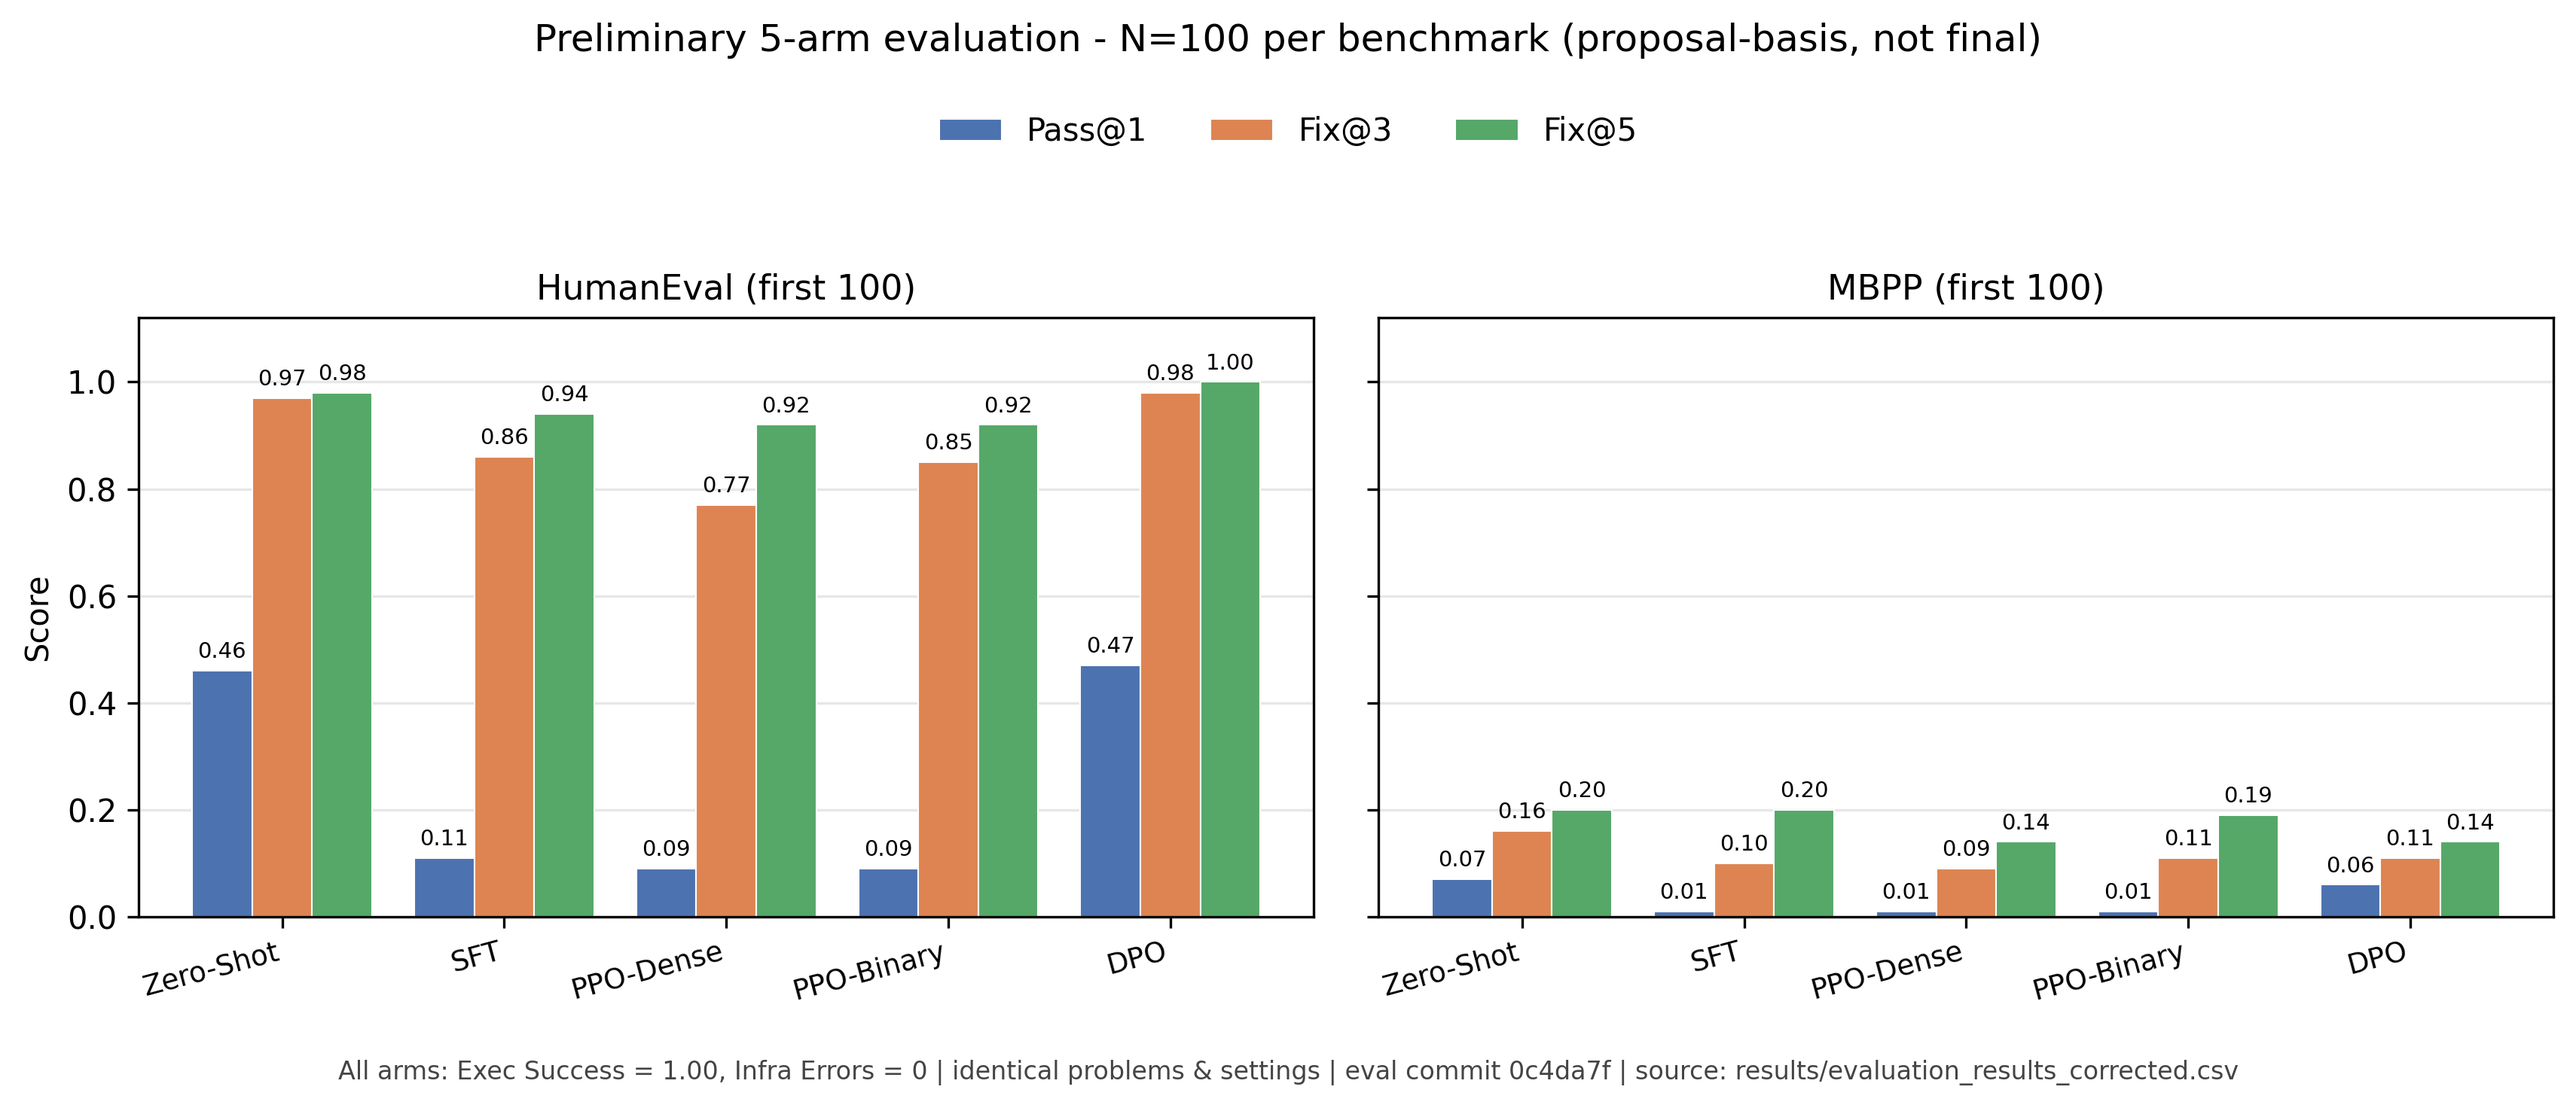
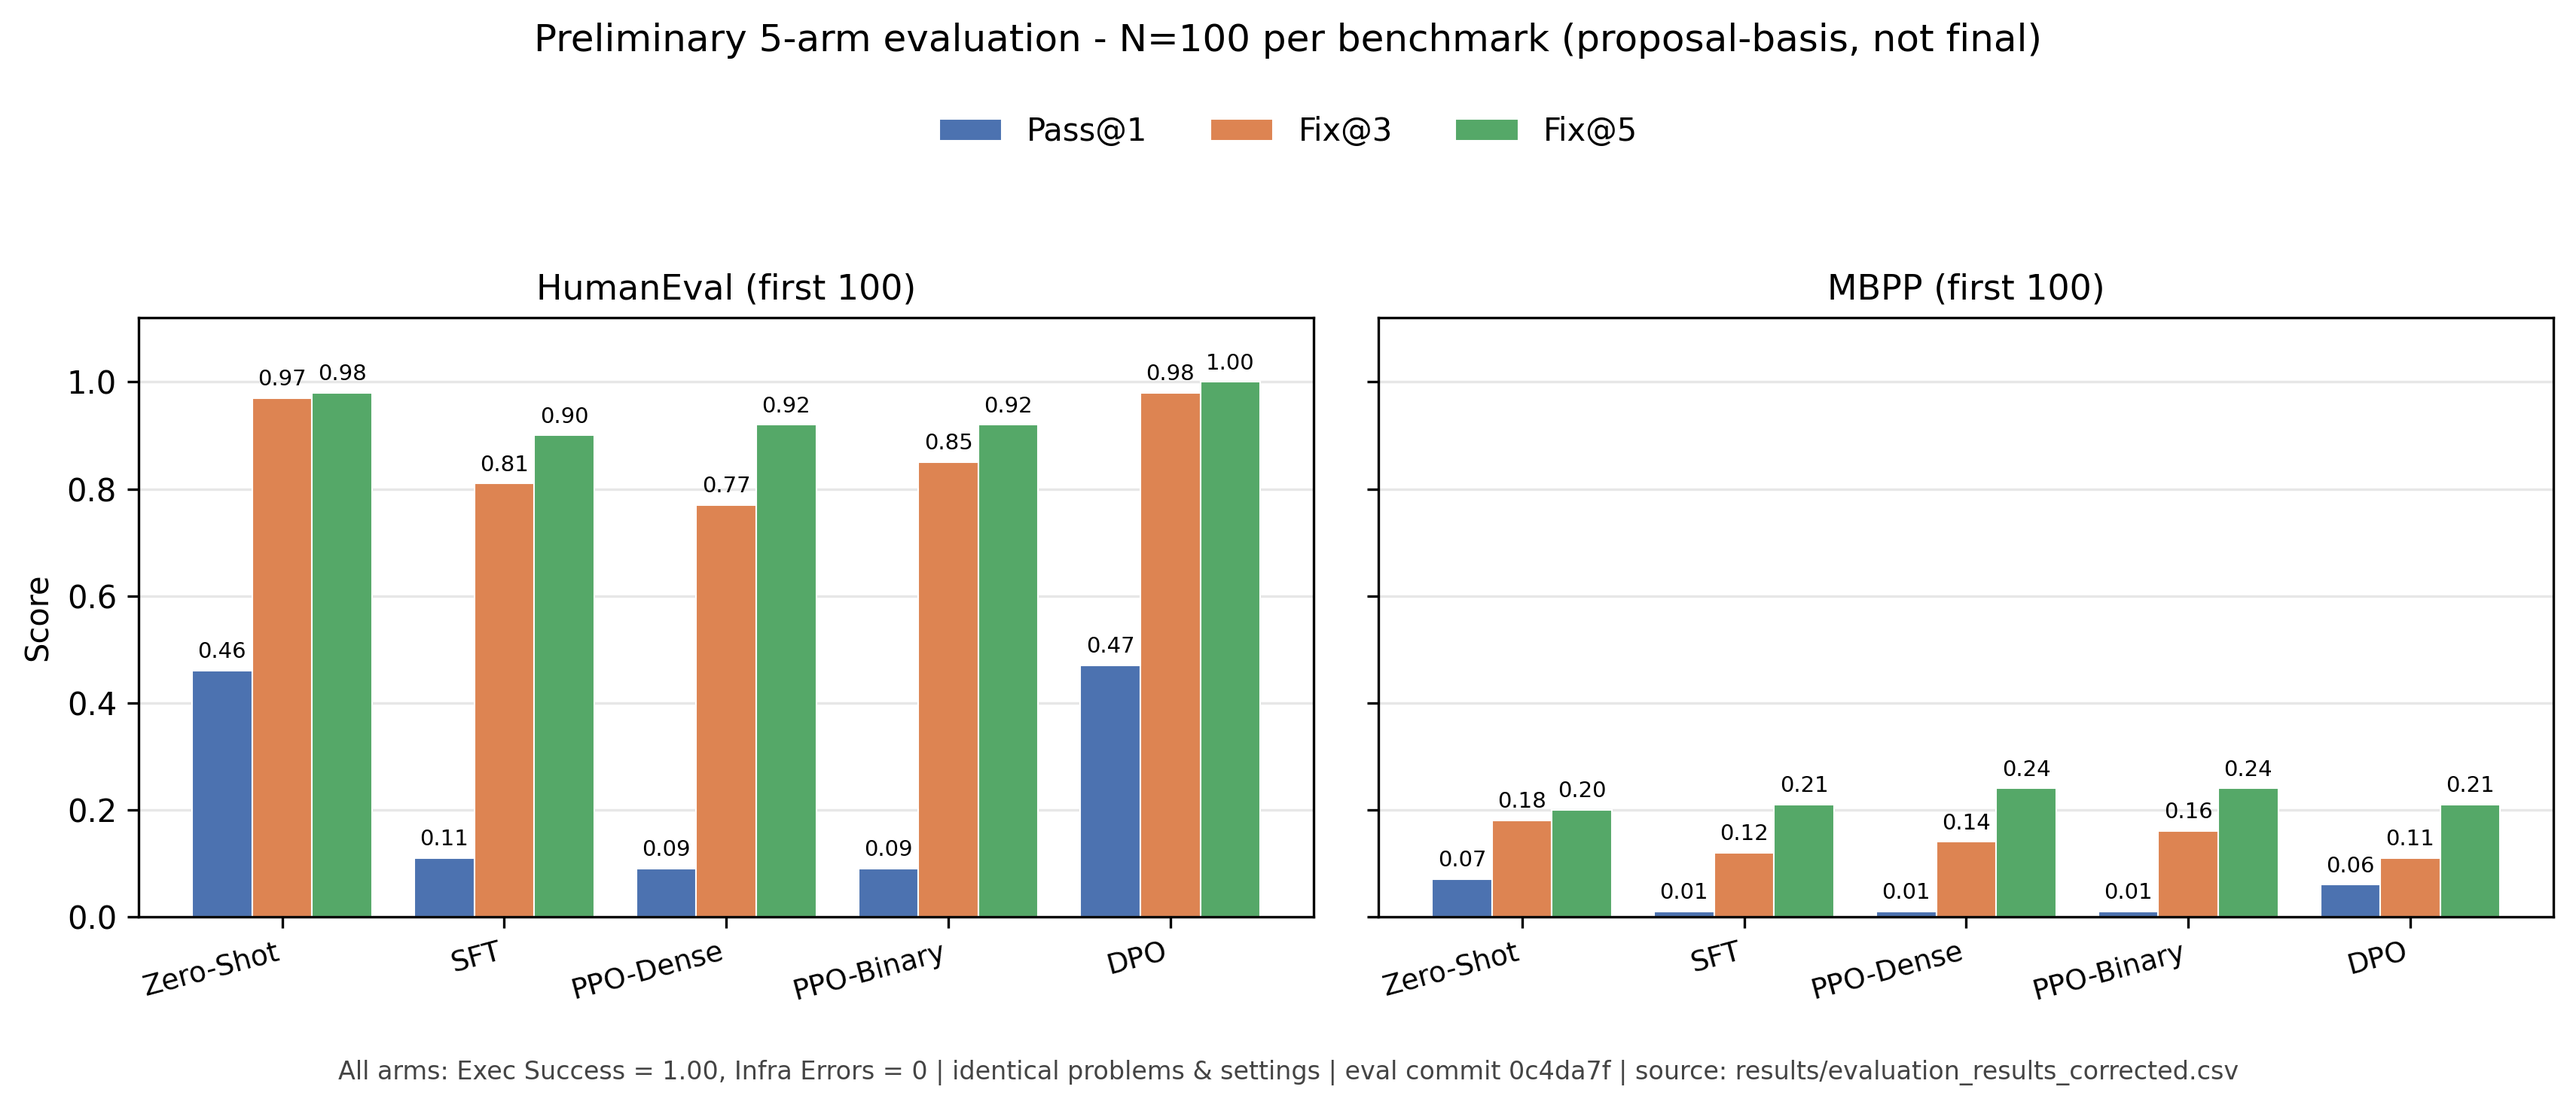
results: replace N=100 Fix@K values with lead-approved run output

diff --git a/outputs.md b/outputs.md
@@ -553,20 +553,21 @@ All 5 arms ran (no SKIPPED), `Exec_Success = 1.0`, `Infra_Errors = 0`, Fix@K mon
 ### Large N=100 (2026-09-28, commit `0c4da7f`; Fix@1 ≡ Pass@1 by construction; **proposal-basis preliminary — not final paper results**)
 | Model | HE Pass@1 | HE Fix@3 | HE Fix@5 | MBPP Pass@1 | MBPP Fix@3 | MBPP Fix@5 | Exec Success | Infra Errors |
 |---|---|---|---|---|---|---|---|---|
-| Zero-Shot | 0.46 | 0.97 | 0.98 | 0.07 | 0.16 | 0.20 | 1.00 | 0 |
-| SFT | 0.11 | 0.86 | 0.94 | 0.01 | 0.10 | 0.20 | 1.00 | 0 |
-| PPO-dense | 0.09 | 0.77 | 0.92 | 0.01 | 0.09 | 0.14 | 1.00 | 0 |
-| PPO-binary | 0.09 | 0.85 | 0.92 | 0.01 | 0.11 | 0.19 | 1.00 | 0 |
-| DPO | 0.47 | 0.98 | 1.00 | 0.06 | 0.11 | 0.14 | 1.00 | 0 |
+| Zero-Shot | 0.46 | 0.97 | 0.98 | 0.07 | 0.18 | 0.20 | 1.00 | 0 |
+| SFT | 0.11 | 0.81 | 0.90 | 0.01 | 0.12 | 0.21 | 1.00 | 0 |
+| PPO-dense | 0.09 | 0.77 | 0.92 | 0.01 | 0.14 | 0.24 | 1.00 | 0 |
+| PPO-binary | 0.09 | 0.85 | 0.92 | 0.01 | 0.16 | 0.24 | 1.00 | 0 |
+| DPO | 0.47 | 0.98 | 1.00 | 0.06 | 0.11 | 0.21 | 1.00 | 0 |
 
 ### Observations (n=100 each benchmark; accepted as proposal-basis preliminary eval, full set reserved for final paper)
-1. **Self-correction loop is the dominant lever**: e.g. PPO-dense HE `0.09` Pass@1 → `0.92` Fix@5; SFT `0.11` → `0.94`.
+1. **Self-correction loop is the dominant lever**: e.g. PPO-dense HE `0.09` Pass@1 → `0.92` Fix@5; SFT `0.11` → `0.90`.
 2. **Base-adjacent arms dominate first-shot**: Zero-Shot `0.46` / DPO `0.47` HE Pass@1 vs SFT-family `0.09–0.11`. Zero-Shot ≈ published deepseek-coder-1.3b-instruct HumanEval (~39%) — sanity ✓. APPS-SFT degrades HE/MBPP first-shot generation; PPO did not restore it (trained on APPS, evaluated cross-domain).
-3. **RQ4 (binary vs dense)**: PPO-binary ≥ PPO-dense — HE Fix@3 `0.85` vs `0.77`, MBPP Fix@5 `0.19` vs `0.14`, ties on HE Pass@1/Fix@5 — binary AC-only matches dense partial credit.
-4. **RQ5 caveat**: DPO ≈ its own starting point (Zero-Shot): HE 47 vs 46 Pass@1; MBPP Fix@5 `0.14` vs `0.20` (worse). The approved DPO run initialized from the **base model** (SFT-adapter search fell back) with 100 pairs — DPO ≫ PPO here largely reflects base-vs-SFT drift, **not** an apples-to-apples DPO-from-SFT vs PPO comparison. Do not cite as RQ5 verdict without this caveat.
+3. **RQ4 (binary vs dense)**: observed higher for PPO-binary on HE Fix@3 `0.85` vs `0.77` and MBPP Fix@3 `0.16` vs `0.14`; identical on HE Pass@1 / HE Fix@5 (`0.92` vs `0.92`) and MBPP Pass@1 / MBPP Fix@5 (`0.24` vs `0.24`) — directional observation only, no significance or equivalence claim.
+4. **RQ5 caveat**: DPO ≈ its own starting point (Zero-Shot): HE 47 vs 46 Pass@1; MBPP Fix@5 `0.21` vs `0.20` (≈ equal). The approved DPO run initialized from the **base model** (SFT-adapter search fell back) with 100 pairs — DPO ≫ PPO here largely reflects base-vs-SFT drift, **not** an apples-to-apples DPO-from-SFT vs PPO comparison. Do not cite as RQ5 verdict without this caveat.
 5. Smoke (N=20) directions reproduced at N=100.
 - **Status**: large eval (N=100) accepted as the **proposal-basis preliminary evaluation** (proposal scope, 2026-09-28). FULL run (164 HE + 500 MBPP, `EVAL_N=None`) remains the planned final-paper target per experiment rule 13.
 - **Artifact record (2026-09-28, post-run)**: the Kaggle session ended without persisting `/kaggle/working` — the original `evaluation_results_corrected.csv/.json` from this run were lost. Exact transcriptions (n=100 → every metric is count/100, no precision loss) are archived at `results/evaluation_results_corrected.csv` + `results/evaluation_results_corrected.json`; the JSON carries an `artifact_provenance` block and marks the two unrecoverable fields (`timestamp_utc`, `status_distributions`) as null. Separately, an accidental re-evaluation against the **flagged first-version notebook-5 output** (non-paper checkpoint) was run; its artifacts were also lost with the session — **no results from that run are retained or reportable**. NB07's runner cell now enforces a provenance gate (`seed 42 / max_steps 100 / target_kl 4 / commit 36c8055*`) that raises before evaluating any non-paper PPO checkpoint.
+- **Value replacement (2026-09-29, lead-approved)**: the Fix@3/Fix@5 values in the N=100 table above were replaced with those from a console capture of the same commit (`0c4da7f`, gate paths + DPO metadata WARN verified). All Pass@1 / Exec_Success / Infra_Errors values are unchanged; Fix@K differences are consistent with sampled turns 1-4 varying across executions of the same seeded eval. Source-session-of-origin was not identified — recorded as an open provenance item in `results/evaluation_results_corrected.json` (`artifact_provenance`). The 2026-09-28 transcription is superseded.
 - **Post-update path audit (2026-09-28)**: with the corrected notebook-5 output attached, `ppo_dense` → `notebook5/.../ppo_dense/final` and `ppo_binary` → `rjd2002/05-ppo-training/.../ppo_binary/final` both show `seed 42 | max_steps 100 | target_kl 4.0 | commit 36c8055` (paper spec, gate-ready); `sft` resolves to notebook5's bundled `checkpoints/sft/final` copy (adapter hash vs notebook4 not compared — parked as low risk); `dpo` known leniency; `zero_shot` = base model.
 
 

diff --git a/docs/experiment_status.md b/docs/experiment_status.md
@@ -59,11 +59,11 @@ The September 2026 notebook runs are preserved as execution evidence, but the nu
 
 | Model | HE Pass@1 | HE Fix@3 | HE Fix@5 | MBPP Pass@1 | MBPP Fix@3 | MBPP Fix@5 | Exec Success | Infra Errors |
 |---|---|---|---|---|---|---|---|---|
-| Zero-Shot | 0.46 | 0.97 | 0.98 | 0.07 | 0.16 | 0.20 | 1.00 | 0 |
-| SFT | 0.11 | 0.86 | 0.94 | 0.01 | 0.10 | 0.20 | 1.00 | 0 |
-| PPO-Dense | 0.09 | 0.77 | 0.92 | 0.01 | 0.09 | 0.14 | 1.00 | 0 |
-| PPO-Binary | 0.09 | 0.85 | 0.92 | 0.01 | 0.11 | 0.19 | 1.00 | 0 |
-| DPO | 0.47 | 0.98 | 1.00 | 0.06 | 0.11 | 0.14 | 1.00 | 0 |
+| Zero-Shot | 0.46 | 0.97 | 0.98 | 0.07 | 0.18 | 0.20 | 1.00 | 0 |
+| SFT | 0.11 | 0.81 | 0.90 | 0.01 | 0.12 | 0.21 | 1.00 | 0 |
+| PPO-Dense | 0.09 | 0.77 | 0.92 | 0.01 | 0.14 | 0.24 | 1.00 | 0 |
+| PPO-Binary | 0.09 | 0.85 | 0.92 | 0.01 | 0.16 | 0.24 | 1.00 | 0 |
+| DPO | 0.47 | 0.98 | 1.00 | 0.06 | 0.11 | 0.21 | 1.00 | 0 |
 
 **DPO caveat (RQ5)**: the current DPO checkpoint was **initialized from the base model** (the SFT-adapter search fell back) and trained on only **100 pairs**. Its numbers essentially track the base-model starting point (cf. Zero-Shot), so current DPO-vs-PPO numbers **cannot** be used as a clean RQ5 conclusion.
 
